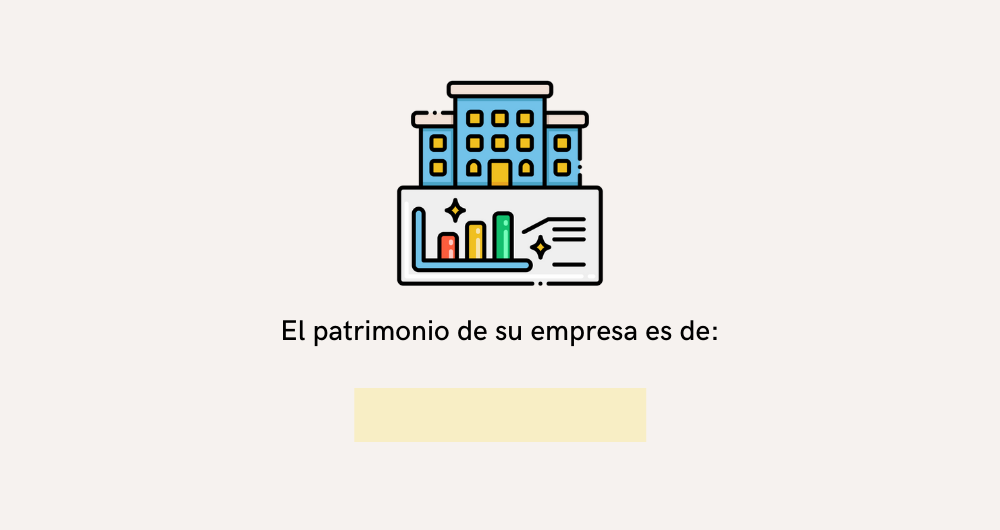
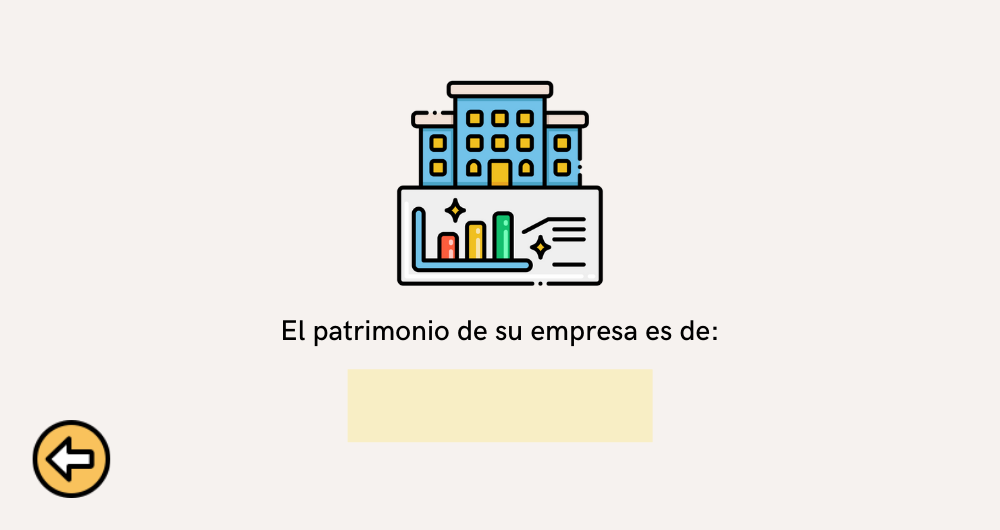
finishing the merge process

Changed region(s): [[0.341, 0.6943, 0.651, 0.8453], [0.031, 0.7849, 0.124, 0.9358]]

diff --git a/src/Dulce_Torta/GUI/GUIP/ContabilidadGUI.java b/src/Dulce_Torta/GUI/GUIP/ContabilidadGUI.java
@@ -65,7 +65,7 @@ public class ContabilidadGUI extends GUIP implements ItemListener {
         btnGastosAdmin= new JButton();
         btnBalanceG= new JButton();
         lblBackground= new JLabel();
-        urlBackground="src/Dulce_Torta/Assets/CONTABILIDAD.png";
+        urlBackground= "src/Dulce_Torta/Assets/Contabilidad/CONTABILIDAD.png";
     }
 
     public void initComponents() {
@@ -100,7 +100,7 @@ public class ContabilidadGUI extends GUIP implements ItemListener {
         btnGastosFijos= new JButton();
 
         //iniciar Componentes
-        changeBackground("src/Dulce_Torta/Assets/Contabilidad_Gastos de administracion.png");
+        changeBackground("src/Dulce_Torta/Assets/Contabilidad/Contabilidad_Gastos de administracion.png");
 
         btnAtras.setBounds(positionX + 37, positionY + 410, 75,75);
         btnGastosNomina.setBounds(positionX + 230, positionY + 150, 220,220);
@@ -122,7 +122,7 @@ public class ContabilidadGUI extends GUIP implements ItemListener {
         btnPatrimonio= new JButton();
         btnAtras2= new JButton();
 
-        changeBackground("src/Dulce_Torta/Assets/21.png");
+        changeBackground("src/Dulce_Torta/Assets/Contabilidad/BalanceGeneral.png");
 
         btnActivos.setBounds(positionX+100, positionY+160, 160, 200);
         btnPasivos.setBounds(positionX+420, positionY+150, 150, 200);
@@ -140,7 +140,7 @@ public class ContabilidadGUI extends GUIP implements ItemListener {
     }
     public void ShowGastosNomina(){
         btnAtras3= new JButton();
-        changeBackground("src/Dulce_Torta/Assets/Contabilidad_Gastos de administracion_Nomina.png");
+        changeBackground("src/Dulce_Torta/Assets/Contabilidad/Contabilidad_Gastos de administracion_Nomina.png");
 
         btnAtras3.setBounds(positionX+35, positionY+407, 75, 75);
 
@@ -155,7 +155,7 @@ public class ContabilidadGUI extends GUIP implements ItemListener {
         btnImpuestos= new JButton();
         btnAtras4= new JButton();
 
-        changeBackground("src/Dulce_Torta/Assets/Gastos de administracion_Gastos fijos.png");
+        changeBackground("src/Dulce_Torta/Assets/Contabilidad/Gastos de administracion_Gastos fijos.png");
 
         btnServiciosP.setBounds(positionX+140, positionY+140, 150, 230);
         btnArrendamiento.setBounds(positionX+380, positionY+140, 200, 230);
@@ -176,7 +176,7 @@ public class ContabilidadGUI extends GUIP implements ItemListener {
         btnRegistrarS= new JButton();
         btnAtras5= new JButton();
 
-        changeBackground("src/Dulce_Torta/Assets/Servicios publicos.png");
+        changeBackground("src/Dulce_Torta/Assets/Contabilidad/Servicios publicos.png");
 
         txtEnergia.setBounds(positionX+350, positionY+300, 110, 35);
         txtAgua.setBounds(positionX+705, positionY+303, 110, 35);
@@ -196,7 +196,7 @@ public class ContabilidadGUI extends GUIP implements ItemListener {
        btnRegistrarA= new JButton();
        btnAtras6= new JButton();
 
-       changeBackground("src/Dulce_Torta/Assets/Arrendamiento.png");
+       changeBackground("src/Dulce_Torta/Assets/Contabilidad/Arrendamiento.png");
 
        txtArrendamiento.setBounds(positionX+510, positionY+347, 170, 40);
        btnRegistrarA.setBounds(positionX+415, positionY+430, 170, 50);
@@ -216,7 +216,7 @@ public class ContabilidadGUI extends GUIP implements ItemListener {
        btnRegistrarI= new JButton();
        btnAtras7= new JButton();
 
-       changeBackground("src/Dulce_Torta/Assets/Impuestos2.png");
+       changeBackground("src/Dulce_Torta/Assets/Contabilidad/Impuestos2.png");
 
        txtImpuestoRFuente.setBounds(positionX+325, positionY+132, 150, 40);
        txtImpuestoRICA.setBounds(positionX+325, positionY+307, 150, 40);
@@ -238,7 +238,7 @@ public class ContabilidadGUI extends GUIP implements ItemListener {
         btnCheck= new JButton();
         btnAtras8= new JButton();
 
-        changeBackground("src/Dulce_Torta/Assets/22.png");
+        changeBackground("src/Dulce_Torta/Assets/Contabilidad/Activos.png");
 
         txtValorPPE.setBounds(positionX+515, positionY+215, 280, 70);
         btnCheck.setBounds(positionX+820, positionY+220, 60, 60);
@@ -254,7 +254,7 @@ public class ContabilidadGUI extends GUIP implements ItemListener {
     public void ShowPasivos(){
         btnAtras8= new JButton();
 
-        changeBackground("src/Dulce_Torta/Assets/23.png");
+        changeBackground("src/Dulce_Torta/Assets/Contabilidad/Pasivos.png");
 
         btnAtras8.setBounds(positionX+35, positionY+405, 70, 70 );
 
@@ -266,7 +266,7 @@ public class ContabilidadGUI extends GUIP implements ItemListener {
     public void ShowPatrimonio(){
         btnAtras8= new JButton();
 
-        changeBackground("src/Dulce_Torta/Assets/24.png");
+        changeBackground("src/Dulce_Torta/Assets/Contabilidad/Patrimonio.png");
 
         btnAtras8.setBounds(positionX+35, positionY+405, 70, 70 );
 
@@ -281,7 +281,7 @@ public class ContabilidadGUI extends GUIP implements ItemListener {
         lblBackground.setIcon(new ImageIcon(urlBackground));
     }
     public void principalGUI(){
-        urlBackground = "src/Dulce_Torta/Assets/CONTABILIDAD.png";
+        urlBackground = "src/Dulce_Torta/Assets/Contabilidad/CONTABILIDAD.png";
         lblBackground.setIcon(new ImageIcon(urlBackground));
         addToJPanel(lblBackground, btnGastosAdmin, btnBalanceG);
         buttonTransparent(btnGastosAdmin, btnBalanceG);

diff --git a/src/Dulce_Torta/GUI/GUIP/OrdenGUI.java b/src/Dulce_Torta/GUI/GUIP/OrdenGUI.java
@@ -222,7 +222,6 @@ public class OrdenGUI extends GUIP implements ItemListener {
         lblValorTotal.setBounds(positionX + 400, positionY + 250, 60, 50);
         btnAtrasOrdenCompletada.setBounds(positionX + 30, positionY + 700, 50,50);
 
-        lblOrden.
         lblOrden.setText("12345");
         lblValorTotal.setText(String.valueOf(valorTotal));
 
